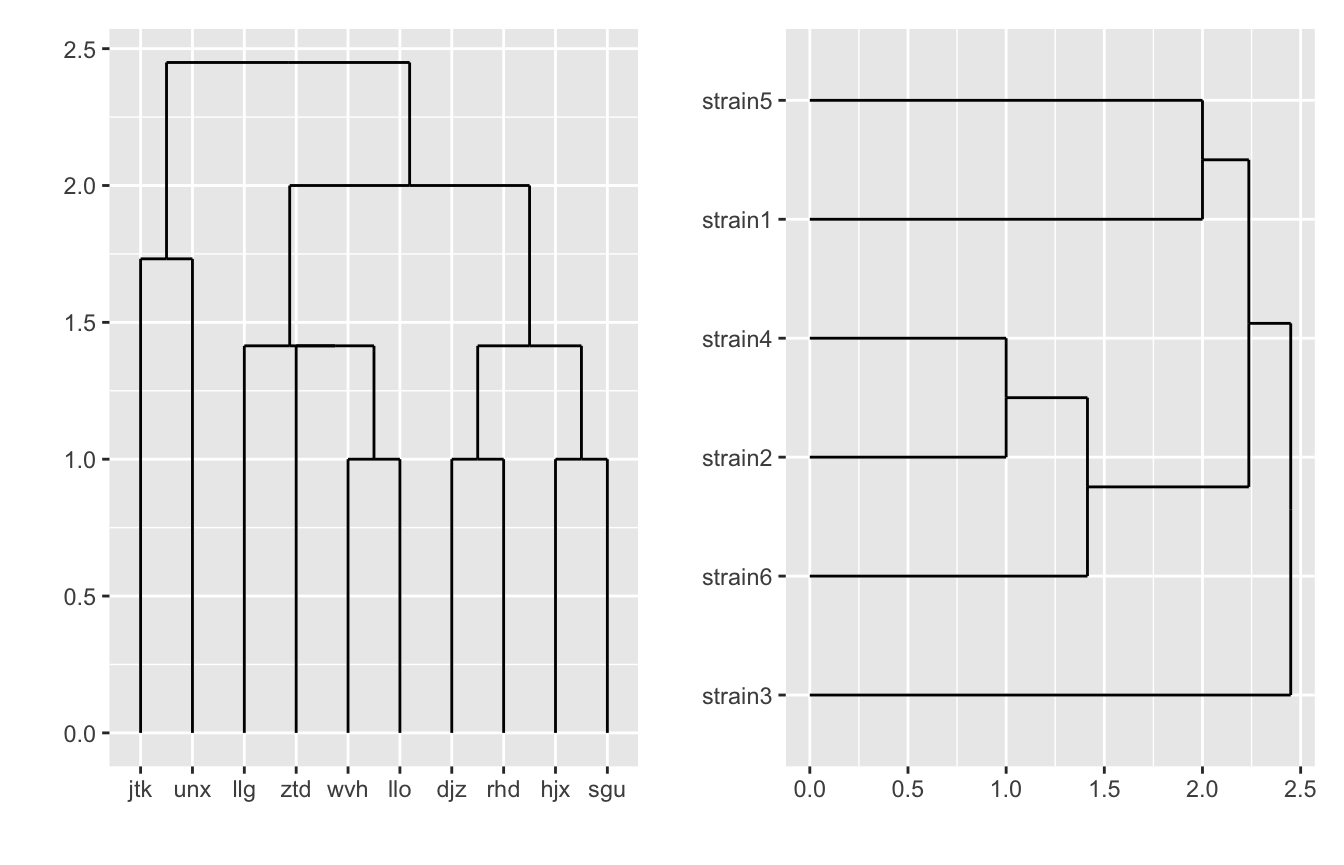
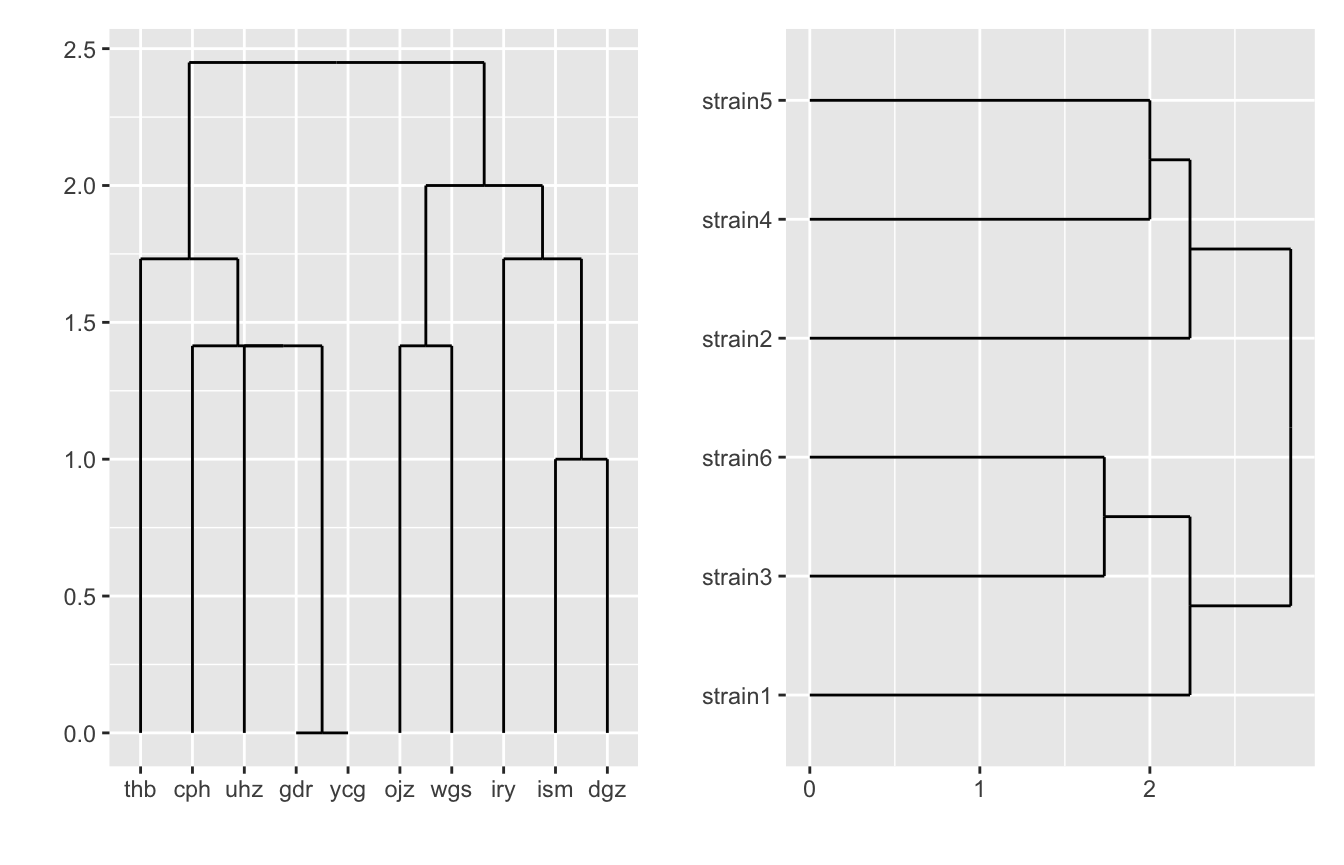
Built site for dendrolenda: 0.1.0@17e1d14

diff --git a/articles/overview.html b/articles/overview.html
@@ -90,12 +90,12 @@
 <h2 class="hasAnchor">
 <a href="#lets-plot-heatmap-with-aligned-dendrograms-using-the-following-randomly-generated-data" class="anchor"></a>Let’s plot heatmap with aligned dendrograms using the following randomly generated data:</h2>
 <pre><code>##   gene  strain value
-## 1  wvh strain1     0
-## 2  llo strain1     1
-## 3  djz strain1     1
-## 4  rhd strain1     1
-## 5  hjx strain1     0
-## 6  jtk strain1     0</code></pre>
+## 1  uhz strain1     0
+## 2  ism strain1     1
+## 3  gdr strain1     0
+## 4  thb strain1     1
+## 5  dgz strain1     1
+## 6  cph strain1     1</code></pre>
 </div>
 <div id="create-dendrograms" class="section level2">
 <h2 class="hasAnchor">
@@ -104,7 +104,7 @@
 <span class="kw">d1_dat</span> <span class="op">&lt;-</span> <span class="fu">create_dend</span>(<span class="kw">example_dat</span>, <span class="st">"gene"</span>, <span class="st">"strain"</span>)
 <span class="kw">d2_dat</span> <span class="op">&lt;-</span> <span class="fu">create_dend</span>(<span class="kw">example_dat</span>, <span class="st">"strain"</span>, <span class="st">"gene"</span>)
 </pre></div>
-<pre><code>## [1] "You are spectacular!"</code></pre>
+<pre><code>## [1] "You are beautiful!"</code></pre>
 </div>
 <div id="create-heatmap" class="section level2">
 <h2 class="hasAnchor">
@@ -122,7 +122,7 @@
 <span class="kw">hm</span>
 </pre></div>
 <p><img src="overview_files/figure-html/unnamed-chunk-4-1.png" width="672"></p>
-<pre><code>## [1] "Such a badass heatmap!"</code></pre>
+<pre><code>## [1] "Such a bedazzling heatmap!"</code></pre>
 </div>
 <div id="create-dendrogram-plots" class="section level2">
 <h2 class="hasAnchor">
@@ -134,7 +134,7 @@
 <span class="kw">d1</span> <span class="op">+</span> <span class="kw">d2</span>
 </pre></div>
 <p><img src="overview_files/figure-html/unnamed-chunk-6-1.png" width="672"></p>
-<pre><code>## [1] "Ha! This is just wicked!"</code></pre>
+<pre><code>## [1] "Mm! This is just terrific!"</code></pre>
 </div>
 <div id="arrange-all-three-plots-with-legend-positioned-at-the-bottom" class="section level2">
 <h2 class="hasAnchor">
@@ -145,7 +145,7 @@
                    <span class="kw">d2</span> <span class="op">+</span> <span class="fu"><a href="https://ggplot2.tidyverse.org/reference/ggtheme.html">theme_void</a></span>())
 </pre></div>
 <p><img src="overview_files/figure-html/unnamed-chunk-8-1.png" width="672"></p>
-<pre><code>## [1] "You are superb!"</code></pre>
+<pre><code>## [1] "You are great!"</code></pre>
 </div>
 <div id="arrange-all-three-plots-with-legend-positioned-in-the-top-right-corner" class="section level2">
 <h2 class="hasAnchor">
@@ -157,7 +157,7 @@
                    top_right = <span class="fu"><a href="../reference/get_legend.html">get_legend</a></span>(<span class="kw">hm</span>))
 </pre></div>
 <p><img src="overview_files/figure-html/unnamed-chunk-10-1.png" width="672"></p>
-<pre><code>## [1] "Yippie! This is just grand!"</code></pre>
+<pre><code>## [1] "Huh! This is just delightful!"</code></pre>
 </div>
 <div id="arrange-all-three-plots-with-adjusted-heights-and-widths" class="section level2">
 <h2 class="hasAnchor">
@@ -170,7 +170,7 @@
                    heights = <span class="fu"><a href="https://rdrr.io/r/base/c.html">c</a></span>(<span class="fl">0.1</span>, <span class="fl">0.9</span>))
 </pre></div>
 <p><img src="overview_files/figure-html/unnamed-chunk-12-1.png" width="672"></p>
-<pre><code>## [1] "You are ace!"</code></pre>
+<pre><code>## [1] "You are super!"</code></pre>
 </div>
 <div id="arrange-all-three-plots-with-colored-labels-on-right-dendrogram" class="section level2">
 <h2 class="hasAnchor">
@@ -183,7 +183,7 @@
                    <span class="kw">d2</span> <span class="op">+</span> <span class="fu"><a href="https://ggplot2.tidyverse.org/reference/ggtheme.html">theme_void</a></span>())
 </pre></div>
 <p><img src="overview_files/figure-html/unnamed-chunk-14-1.png" width="672"></p>
-<pre><code>## [1] "HEH! You have done this calmly!"</code></pre>
+<pre><code>## [1] "AHA! You have done this calmly!"</code></pre>
 </div>
 </div>
   </div>

diff --git a/index.html b/index.html
@@ -71,11 +71,10 @@
 
       </header><div class="row">
   <div class="contents col-md-9">
-
-<p><img src="https://github.com/michbur/dendrolenda/workflows/check/badge.svg" alt="check"></p>
 <div id="dendrolenda" class="section level1">
 <div class="page-header"><h1 class="hasAnchor">
 <a href="#dendrolenda" class="anchor"></a>dendrolenda</h1></div>
+<p><img src="https://github.com/michbur/dendrolenda/workflows/check/badge.svg" alt="check"></p>
 <p>Package for alignment of dendrogram plots with heatmap in ggplot2.</p>
 <div id="background" class="section level2">
 <h2 class="hasAnchor">
@@ -110,7 +109,6 @@
 <p><img src="README_files/figure-gfm/unnamed-chunk-1-1.png"><!-- --></p>
 </div>
 </div>
-
   </div>
 
   <div class="col-md-3 hidden-xs hidden-sm" id="pkgdown-sidebar">
